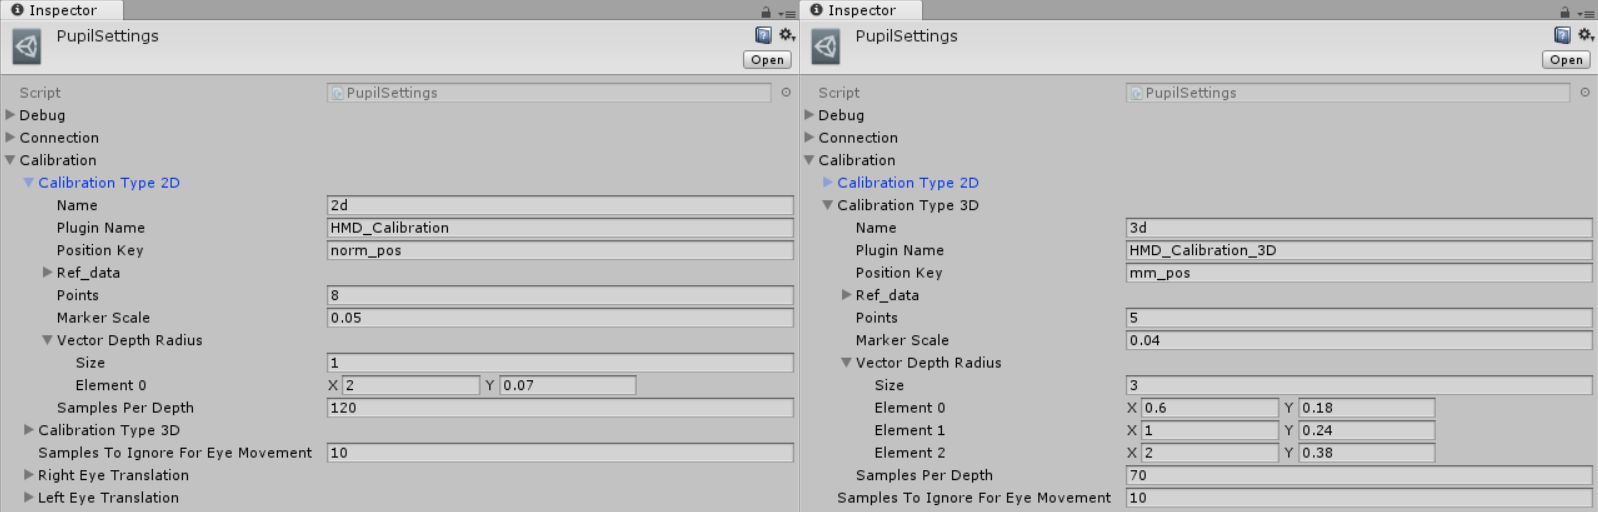
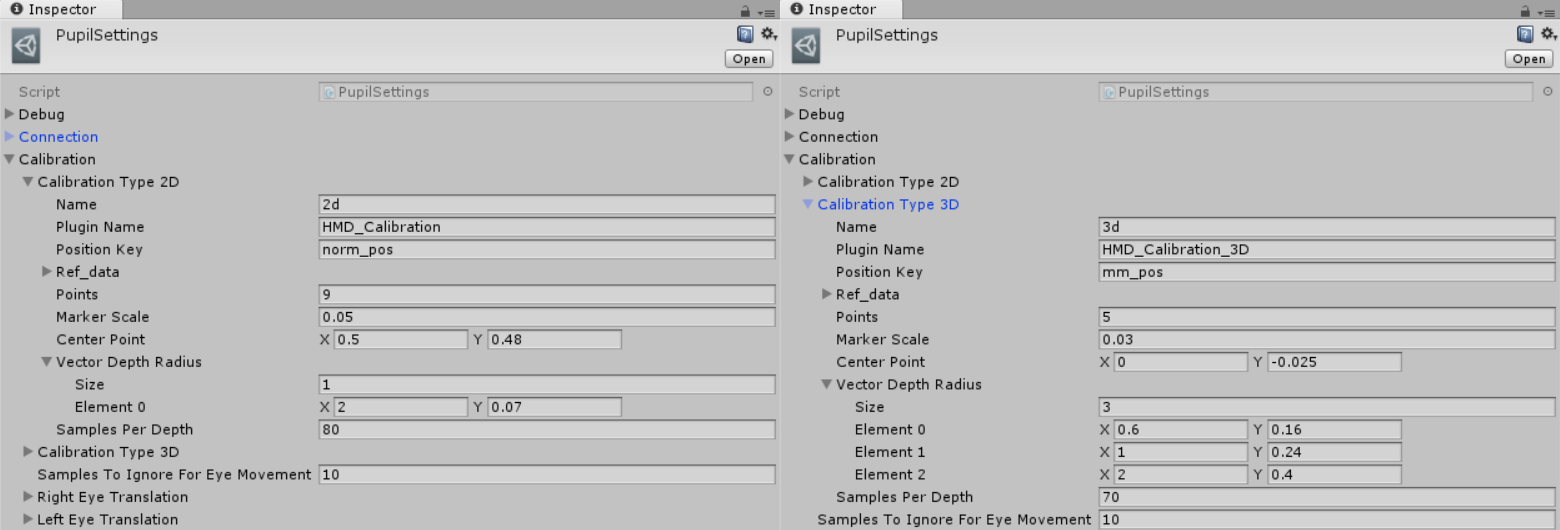
Added information about the new calibration variable "Center Point"

Changed region(s): [[0.0, 0.0, 1.0, 1.0], [0.7077, 0.4062, 1.0, 0.6875], [0.1846, 0.5312, 0.4923, 0.6562]]

diff --git a/developer-docs/unity.md b/developer-docs/unity.md
@@ -114,6 +114,8 @@ Go to `pupil_plugin/PupilSettings` and select `Calibration`
 
 - `Marker Scale` determines the size of the calibration marker on screen 
 
+- `Center Point` allows you to shift the calibration point center in x and y direction. This can be helpful if, due to how the VR headset sits on your head, the center for the eyes differs from the center of the display. For 2D calibration, the center point values are interpreted as viewport coordinates
+
 - `Vector Depth Radius` can be adapted to define the dimension of the circle 
 
 	- 2D calibration: We place the markers based on viewport coordinates, starting at the center position (0.5,0.5). Depth translates to the distance from the camera at which marker is placed. Radius defines the distance from the center point (in viewport space).
